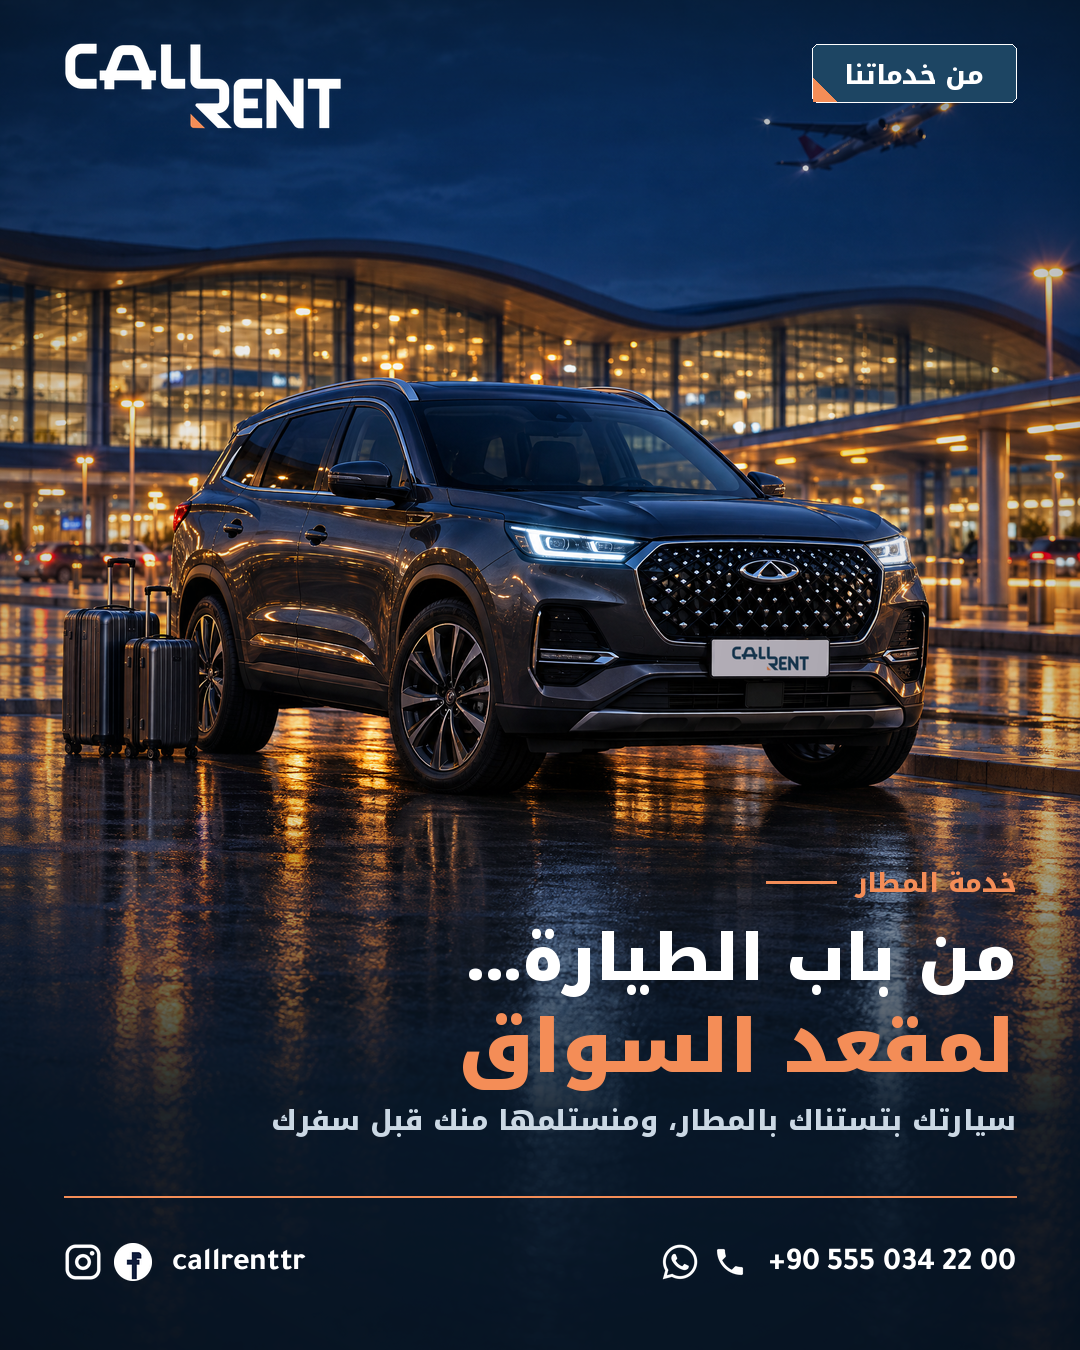
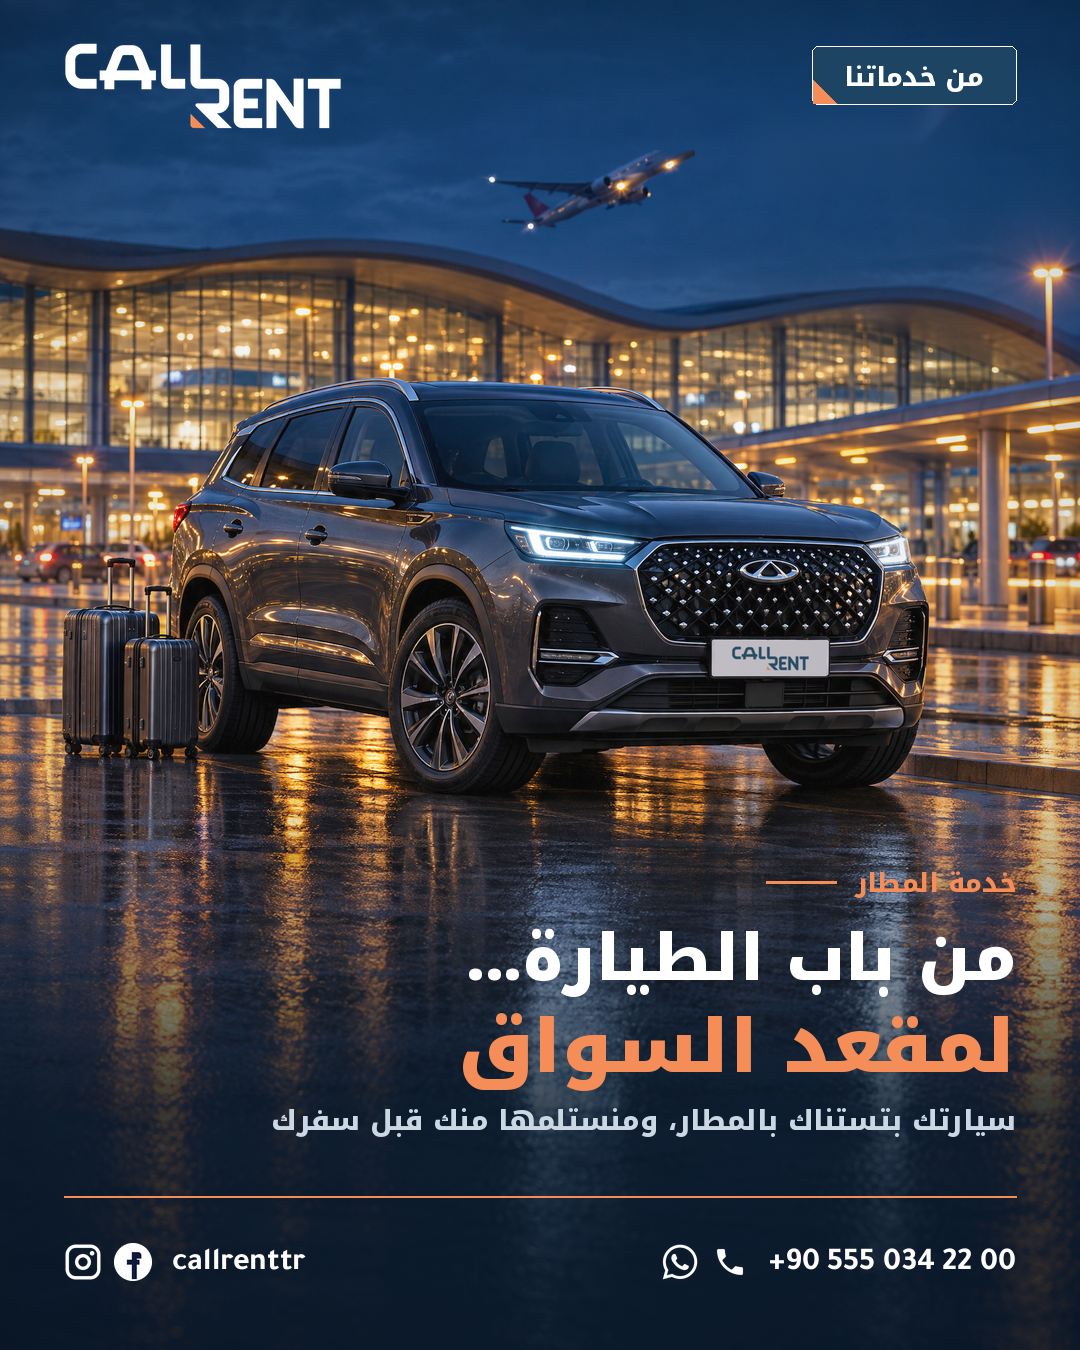
Airport post: brighter grade, plane moved clear of the badge
Claude-Session: https://claude.ai/code/session_01JWxxZZBXcuDznNNTjM86b7

diff --git a/marketing/posts/airport_post.py b/marketing/posts/airport_post.py
@@ -27,17 +27,39 @@ sc.alpha_composite(pl, (px0, py0))
 
 cv = sc.resize((W, H), Image.LANCZOS)
 
+# --- move the plane out from under the badge: lift it, refill the sky ---------
+import cv2
+arr = np.array(cv.convert('RGB'))
+bx0, by0, bx1, by1 = 745, 92, 970, 190            # plane box (canvas px)
+patch = arr[by0:by1, bx0:bx1].copy()
+m = np.zeros(arr.shape[:2], np.uint8); m[by0:by1, bx0:bx1] = 255
+arr = cv2.inpaint(arr, m, 7, cv2.INPAINT_TELEA)
+# plane mask = pixels brighter/redder than the local sky
+sky = cv2.GaussianBlur(arr[by0:by1, bx0:bx1].astype(np.float32), (0,0), 6)
+diff = np.abs(patch.astype(np.float32) - sky).sum(2)
+pm = np.clip((diff-14)/30, 0, 1)
+pm = cv2.GaussianBlur(pm, (0,0), 1.2)[..., None]
+nx, ny = 470, 150                                   # new top-left
+dst = arr[ny:ny+(by1-by0), nx:nx+(bx1-bx0)].astype(np.float32)
+arr[ny:ny+(by1-by0), nx:nx+(bx1-bx0)] = (dst*(1-pm) + patch*pm).astype(np.uint8)
+# --- lift exposure: brighter mids and shadows, keep highlights ----------------
+f = arr.astype(np.float32)/255
+f = f**0.82
+f = f + 0.035*(1-f)
+arr = np.clip(f*255, 0, 255).astype(np.uint8)
+cv = Image.fromarray(arr).convert('RGBA')
+
 # --- grade: deep navy floor for the type, soft top for the logo ---------------
 ys = np.arange(H, dtype=np.float32)
 def band(alpha_col, rgb):
     lay = Image.new('RGBA', (W, H), rgb+(0,))
     lay.putalpha(Image.fromarray((np.repeat(alpha_col[:, None], W, 1)*255).astype(np.uint8)))
     cv.alpha_composite(lay)
-band(np.clip((ys-780)/330, 0, 1)**1.15*0.88, (8, 24, 41))
-band(np.clip(1-ys/230, 0, 1)**1.6*0.55, (8, 24, 41))
+band(np.clip((ys-790)/320, 0, 1)**1.1*0.78, (8, 24, 41))
+band(np.clip(1-ys/200, 0, 1)**1.6*0.35, (8, 24, 41))
 # corner vignette
 yy, xx = np.mgrid[0:H, 0:W].astype(np.float32)
-vg = np.clip(np.sqrt(((xx-W/2)/(W*0.75))**2 + ((yy-H*0.45)/(H*0.75))**2), 0, 1)**2.4*0.55
+vg = np.clip(np.sqrt(((xx-W/2)/(W*0.75))**2 + ((yy-H*0.45)/(H*0.75))**2), 0, 1)**2.4*0.32
 lay = Image.new('RGBA', (W, H), (4, 12, 22, 0)); lay.putalpha(Image.fromarray((vg*255).astype(np.uint8))); cv.alpha_composite(lay)
 
 d = ImageDraw.Draw(cv)
@@ -48,7 +70,7 @@ lw_ = lw_.resize((LW, round(LW*lw_.height/lw_.width)), Image.LANCZOS)
 cv.alpha_composite(lw_, (M-6, 40))
 
 fb = F(AR_BOLD, 26); bt = 'من خدماتنا'
-bw = w_ar(bt, fb) + 64; bh = 58; bx = R_ - bw; by = 44
+bw = w_ar(bt, fb) + 64; bh = 58; bx = R_ - bw; by = 46
 d.rounded_rectangle((bx, by, bx+bw, by+bh), radius=6, fill=LOGONAVY+(255,), outline=(255,255,255,70), width=1)
 d.polygon([(bx+1, by+bh-24), (bx+1, by+bh-1), (bx+24, by+bh-1)], fill=ORANGE+(255,))
 d.text((bx+bw/2, by+bh/2+2), bt, font=fb, fill=WHITE+(255,), anchor='mm', direction='rtl', language='ar')
